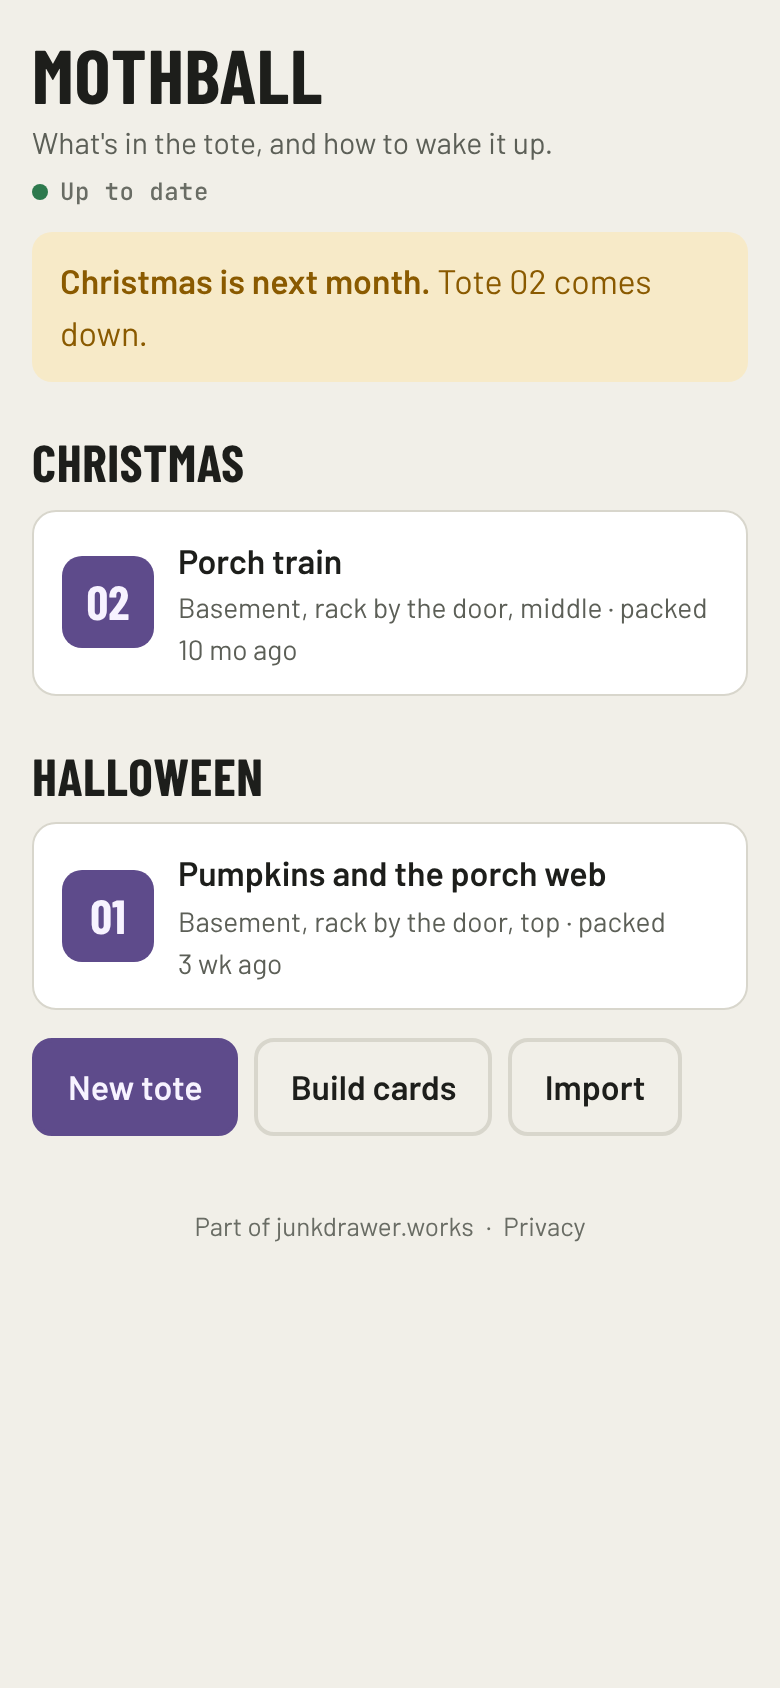
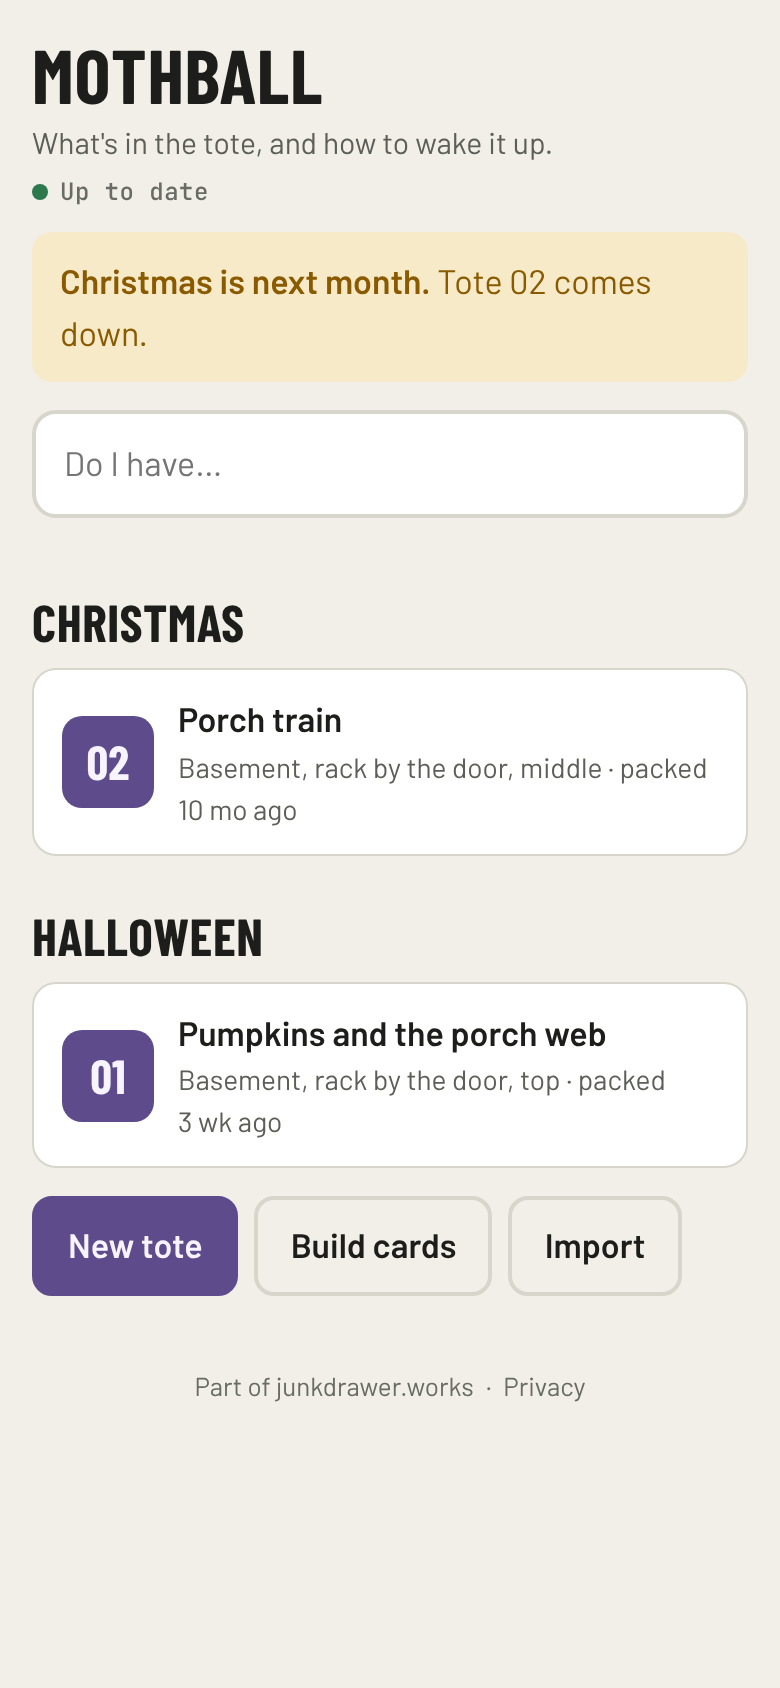
Fresh screenshots: the Do I have box, and Move on a tote's lines
The home page pictures (and Frostbite's og.png, made from its home page) didn't show the new search box, and Mothball's
tote picture didn't show Move beside each contents line. Made again with common/tools/shots.mjs as before (connected
to the pretend ledger with the sample, clock at 26 Nov 2026 3:30 pm); the README's alt text says what's in them now.
The guides that show them are rebuilt, and Mothball's checkpoint 1 and 4 crops end between rows again (the tote's lines
wrap one more line beside Move, and the home page is taller by the box). Answers "Search in Frostbite and Mothball" and
"Move a line or a build card to another tote".

Claude-Session: https://claude.ai/code/session_01PQbLNWMw3VK9SgDVwvSump

diff --git a/README.md b/README.md
@@ -5,8 +5,8 @@
 **What's in each seasonal tote, and how to bring every build in it back to life next year.** A sticker on each tote opens its page: the contents to tick off as you unpack, a card for each build inside (power, firmware, bring-up steps, how to point it at new Wi-Fi), and the note you left yourself when you packed it.
 
 <p align="center">
-  <img src="docs/phone-tote.png" width="250" alt="A tote: its shelf, last year's note, the contents to tick off, and the build card.">
-  <img src="docs/phone-home.png" width="250" alt="All totes by season, the next season first.">
+  <img src="docs/phone-tote.png" width="250" alt="A tote: its shelf, last year's note, and the contents to tick off, each with Move.">
+  <img src="docs/phone-home.png" width="250" alt="The Do I have box, then all totes by season, the next season first.">
 </p>
 
 ## How it works
